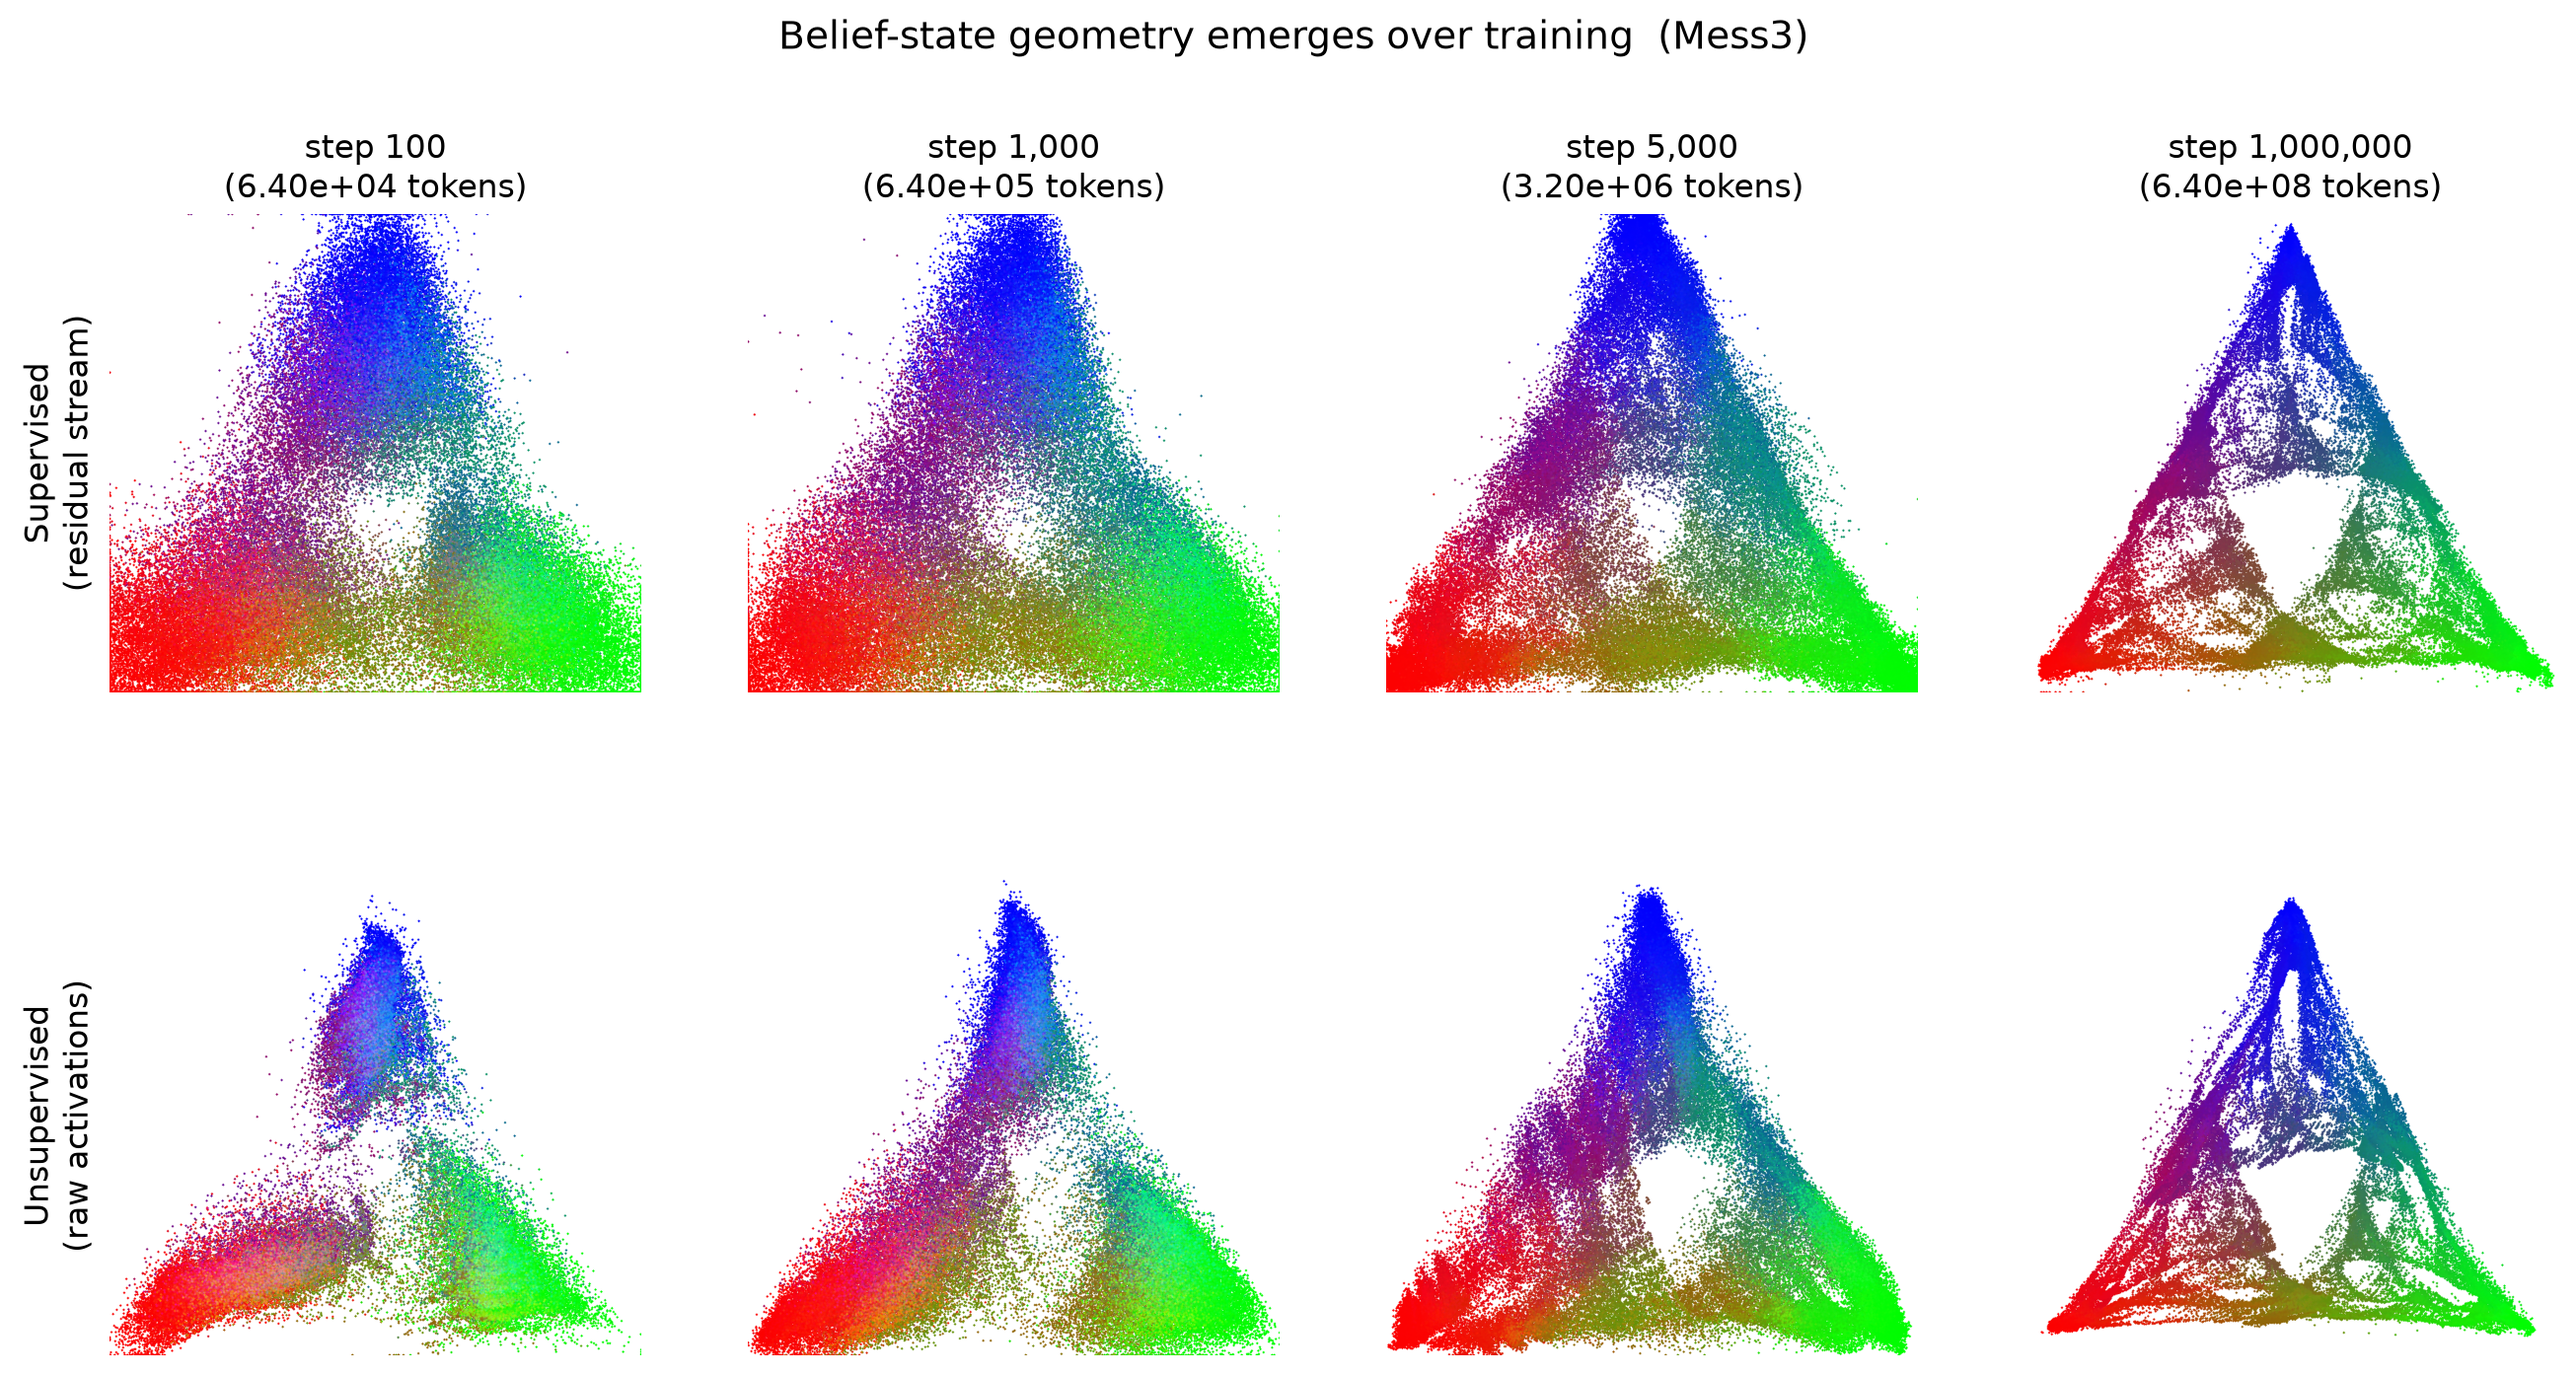
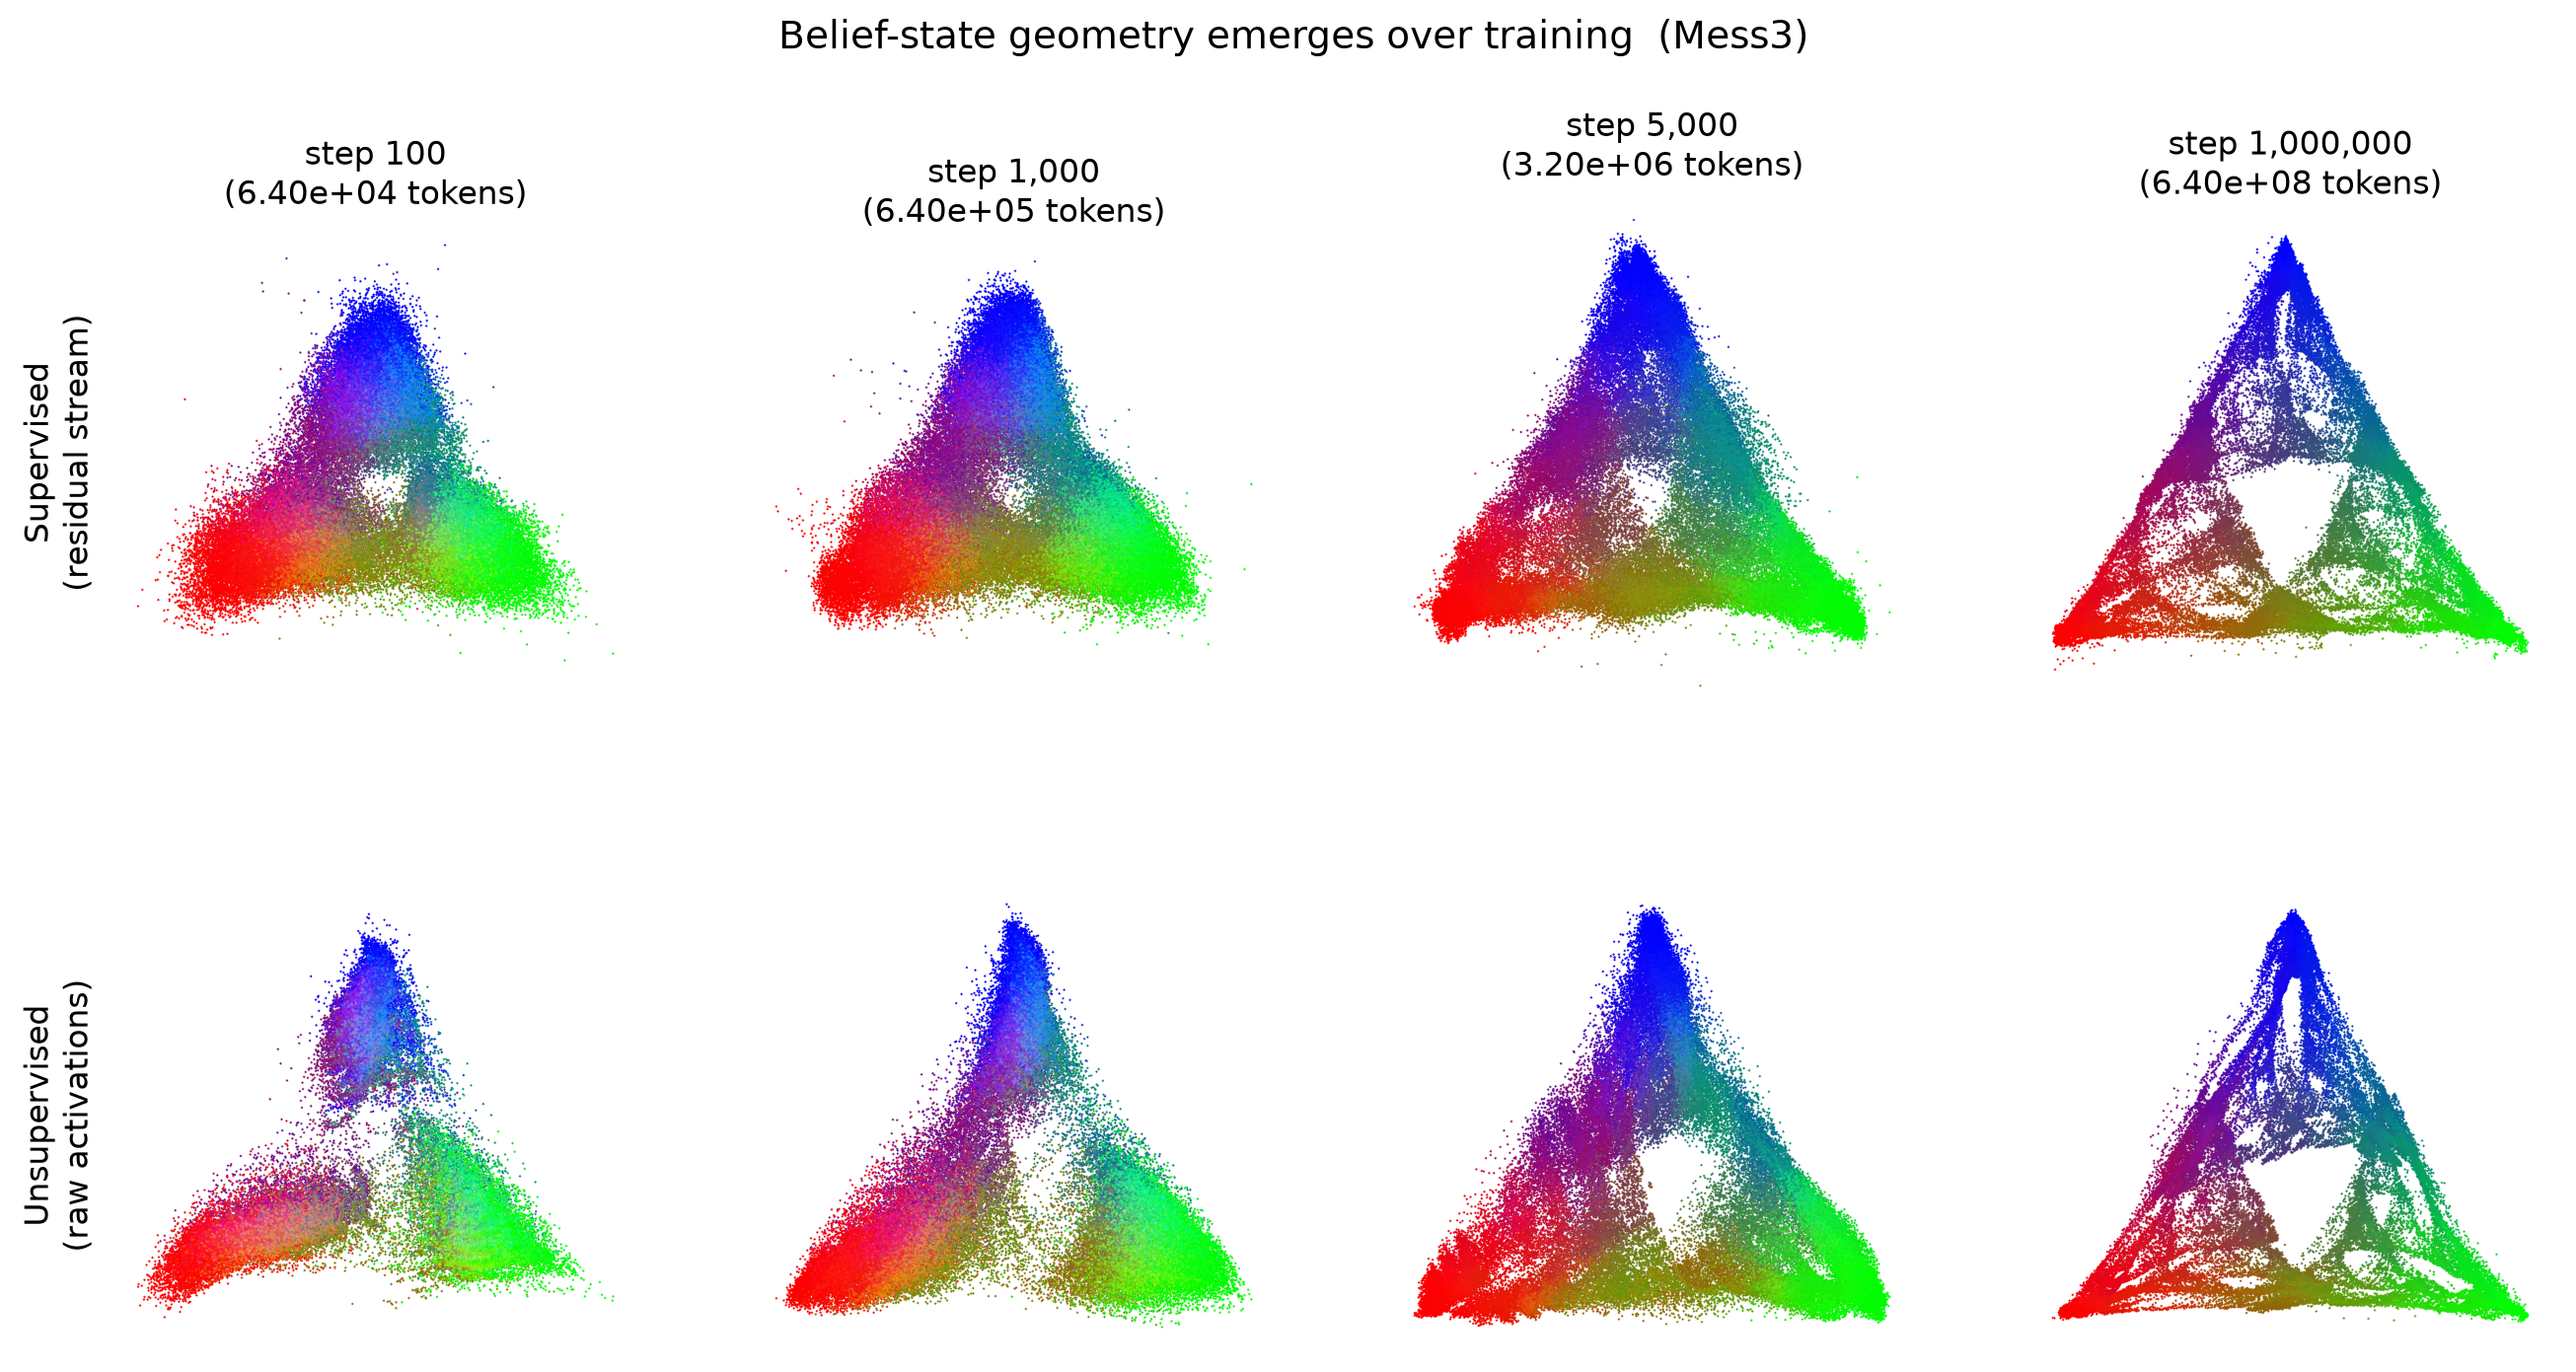
Fix fig06 early panels: auto-scale to data (under-trained decode extrapolates)
Early-checkpoint supervised regression can't linearly predict belief yet, so
its predicted beliefs extrapolate well outside the simplex (step 100 spans
x[-0.30,1.30]). The fixed simplex-sized rasterizer window clipped this into a
misleading zoomed-in crop. Add an `auto` range option to rasterize_simplex
(data bounding box + margin, square pixels) and use it in fig06 so each panel
fits its own cloud — matching the paper's per-panel auto-scaling. fig03/fig04
keep the fixed simplex window (their data is on-simplex; unchanged).

diff --git a/reproduction/unsupervised_belief_oom.py b/reproduction/unsupervised_belief_oom.py
@@ -581,15 +581,27 @@ def _disk(px):
     return (xx ** 2 + yy ** 2) <= px ** 2
 
 
-def rasterize_simplex(xy, color_rgb, px=2, W=1000, H=900):
+def rasterize_simplex(xy, color_rgb, px=2, W=1000, H=900, auto=False):
     """Datashader-style render (matches the paper's tf.shade + tf.spread): bin
-    points into a fixed WxH grid, colour each occupied cell by the mean RGB of
-    its points, then dilate by `px`; empty cells stay white. Density is then
+    points into a WxH grid, colour each occupied cell by the mean RGB of its
+    points, then dilate by `px`; empty cells stay white. Density is then
     independent of figure size/DPI (the cause of earlier 'sparse' looking plots).
+
+    auto=True scales the window to the data's own bounding box (with a margin and
+    square pixels) instead of the fixed simplex window — needed when the points
+    can fall outside the simplex (e.g. an under-trained model's regression
+    extrapolates), which otherwise gets clipped into a misleading zoomed-in crop.
     """
     x, y = xy[:, 0], xy[:, 1]
-    x0, x1 = -0.05, 1.05
-    y0, y1 = -0.05, np.sqrt(3) / 2 + 0.05
+    if auto:
+        mx = 0.06 * (x.max() - x.min() + 1e-9)
+        my = 0.06 * (y.max() - y.min() + 1e-9)
+        x0, x1 = x.min() - mx, x.max() + mx
+        y0, y1 = y.min() - my, y.max() + my
+        H = max(200, int(round(W * (y1 - y0) / (x1 - x0))))  # square pixels -> no distortion
+    else:
+        x0, x1 = -0.05, 1.05
+        y0, y1 = -0.05, np.sqrt(3) / 2 + 0.05
     ix = np.clip(((x - x0) / (x1 - x0) * W).astype(int), 0, W - 1)
     iy = np.clip(((y - y0) / (y1 - y0) * H).astype(int), 0, H - 1)
     sums = np.zeros((H, W, 3))

diff --git a/reproduction/fig06_training_progression.py b/reproduction/fig06_training_progression.py
@@ -72,7 +72,7 @@ def main():
         # --- top: supervised residual-stream decode (per-checkpoint regression) ---
         reg = LinearRegression().fit(Xfull, true_b)
         sup_xy = U.simplex_to_xy(reg.predict(Xfull))
-        axes[0, col].imshow(U.rasterize_simplex(sup_xy, color, px=2), origin="lower")
+        axes[0, col].imshow(U.rasterize_simplex(sup_xy, color, px=2, auto=True), origin="lower")
 
         # --- bottom: unsupervised raw activations in the recovered subspace ---
         rows, X, P, Yc, Wt = U.build_transitions(resid, soft, prefix_prob, max_len, vocab)
@@ -83,7 +83,7 @@ def main():
             print(f"  step {step}: ALS skipped ({exc}); using CCA basis")
         raw_xy = U.plane_coords(Xfull @ basis)
         raw_aligned, _ = U.affine_align(raw_xy, true_xy, wcol)
-        axes[1, col].imshow(U.rasterize_simplex(raw_aligned, color, px=2), origin="lower")
+        axes[1, col].imshow(U.rasterize_simplex(raw_aligned, color, px=2, auto=True), origin="lower")
 
         tok = step * TOK_PER_STEP
         axes[0, col].set_title(f"step {step:,}\n({tok:.2e} tokens)")
